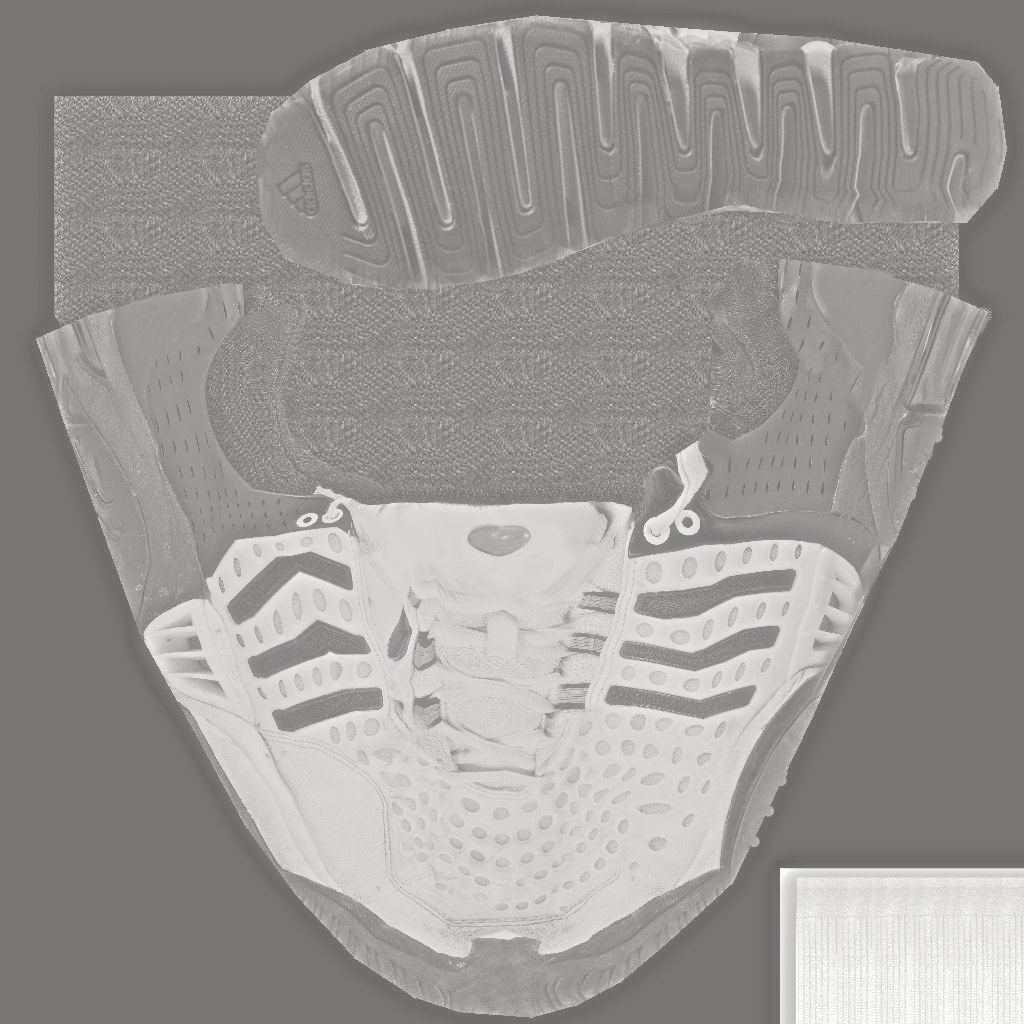
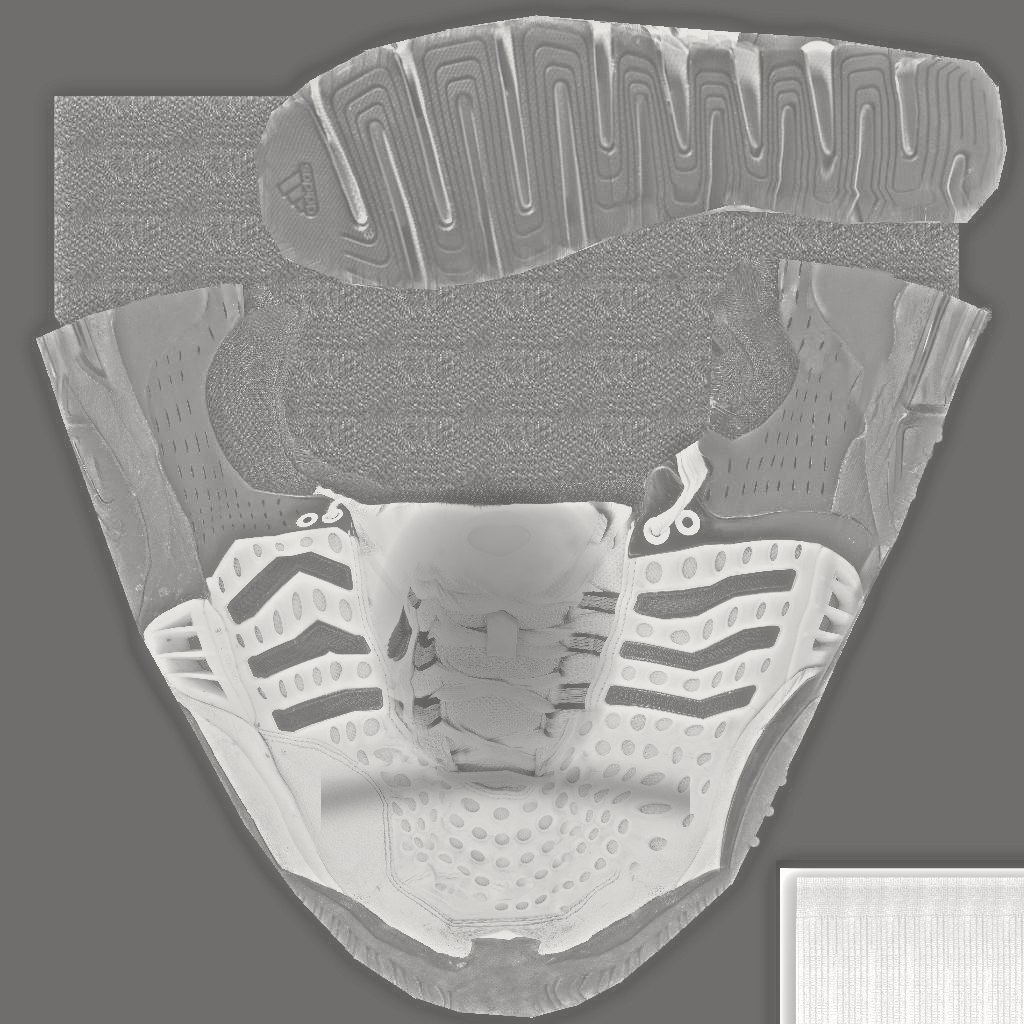
아바타 21차: 운동화 끈·혀 어둡게, 앞코 주름 그늘, 갑피 회색 톤 낮추고 흰 중창과 구분, 밑창 중간 회색, 서비스 워커 v57

Changed region(s): [[0.3125, 0.4688, 0.6875, 0.8125]]

diff --git a/avatar3d.js b/avatar3d.js
@@ -1112,10 +1112,10 @@ float armParam(vec3 p) {
               {
                 float e = max(fwidth(vWY), 0.02);
                 float sole = 1.0 - smoothstep(1.6 - e, 1.6 + e, vWY);
-                diffuseColor.rgb *= 0.92; // 옆판은 아주 옅은 회색
-                diffuseColor.rgb = mix(diffuseColor.rgb, vec3(0.78, 0.78, 0.77), sole);
+                diffuseColor.rgb *= 0.72; // 갑피는 옅은 회색(흰 양말·밝은 중창과 구분)
+                diffuseColor.rgb = mix(diffuseColor.rgb, vec3(0.92, 0.92, 0.91), sole);
                 diffuseColor.rgb *= 1.0 - 0.5 * (1.0 - smoothstep(0.0, 0.18, abs(vWY - 1.7)));
-                diffuseColor.rgb *= 1.0 - 0.25 * (1.0 - smoothstep(0.0, 0.6, vWY));
+                diffuseColor.rgb = mix(diffuseColor.rgb, vec3(0.55, 0.55, 0.54), 1.0 - smoothstep(0.0, 0.5, vWY)); // 밑창 바닥면은 새까맣지 않게 중간 회색
               }`);
         };
         mat.customProgramCacheKey = () => 'shoe-sole'; // 신발 밑면이 새까만 띠로 보이지 않게

diff --git a/sw.js b/sw.js
@@ -1,6 +1,6 @@
 // 앱 파일을 캐시해 오프라인에서도 열리게 한다.
 // 파일을 수정했으면 CACHE 버전을 올려야 사용자 기기에 새 버전이 반영된다.
-const CACHE = 'fitcheck-v56';
+const CACHE = 'fitcheck-v57';
 const ASSETS = [
   './',
   'index.html',

diff --git a/tools/build_human.py b/tools/build_human.py
@@ -454,8 +454,19 @@ def clean_shoes(src, dst, size):
     blurL = np.asarray(Image.fromarray(np.clip(lum, 0, 255).astype(np.uint8)).filter(ImageFilter.GaussianBlur(10 * size / 1024))).astype(np.float32) + 8
     detail = np.clip(lum / blurL, 0.4, 1.6)                       # 끈·구멍·패널 결
     base = np.clip(125 + blurL * 0.4, 0, 215)                     # 큰 밝기: 흰 갑피(조명에서 날아가지 않게 약간 낮게), 어두운 판·밑창은 중간 회색
-    l2 = np.clip(base * (0.6 + 0.5 * detail), 0, 235)  # 끈·구멍·밑창 경계가 보이게 결 대비를 더
+    l2 = np.clip(base * (0.45 + 0.65 * detail), 0, 232)  # 끈·구멍·밑창 경계가 보이게 결 대비를 더
     a = np.repeat(l2[..., None], 3, -1) * np.array([1.0, 0.993, 0.98])
+    # 신발 앞(512 기준 좌표 × f): 끈·혀 자리 18% 어둡게, 혀의 하트 로고는 지우고, 앞코가 접히는 자리에 부드러운 주름 그늘
+    f2 = size / 1024
+    yy, xx = np.mgrid[0:size, 0:size].astype(np.float32) / f2
+    def ellm(cx, cy, rx, ry, p=1.5):
+        d = ((xx - cx) / rx) ** 2 + ((yy - cy) / ry) ** 2
+        return np.clip(1 - d, 0, 1) ** p
+    logo = ellm(500, 540, 46, 30, 0.3)[..., None]
+    a = a * (1 - logo) + np.median(a[int(560 * f2):int(600 * f2), int(440 * f2):int(560 * f2)].reshape(-1, 3), axis=0) * logo
+    a = a * (1 - 0.32 * ellm(495, 635, 125, 160, 0.7))[..., None]
+    crease = np.exp(-((yy - (780 + 0.0006 * (xx - 505) ** 2)) / 18) ** 2) * ((xx > 320) & (xx < 690))
+    a = a * (1 - 0.25 * crease)[..., None]
     f = size / 512
     y0, x0 = int(430 * f), int(388 * f)
     sock = a[y0:, x0:]
